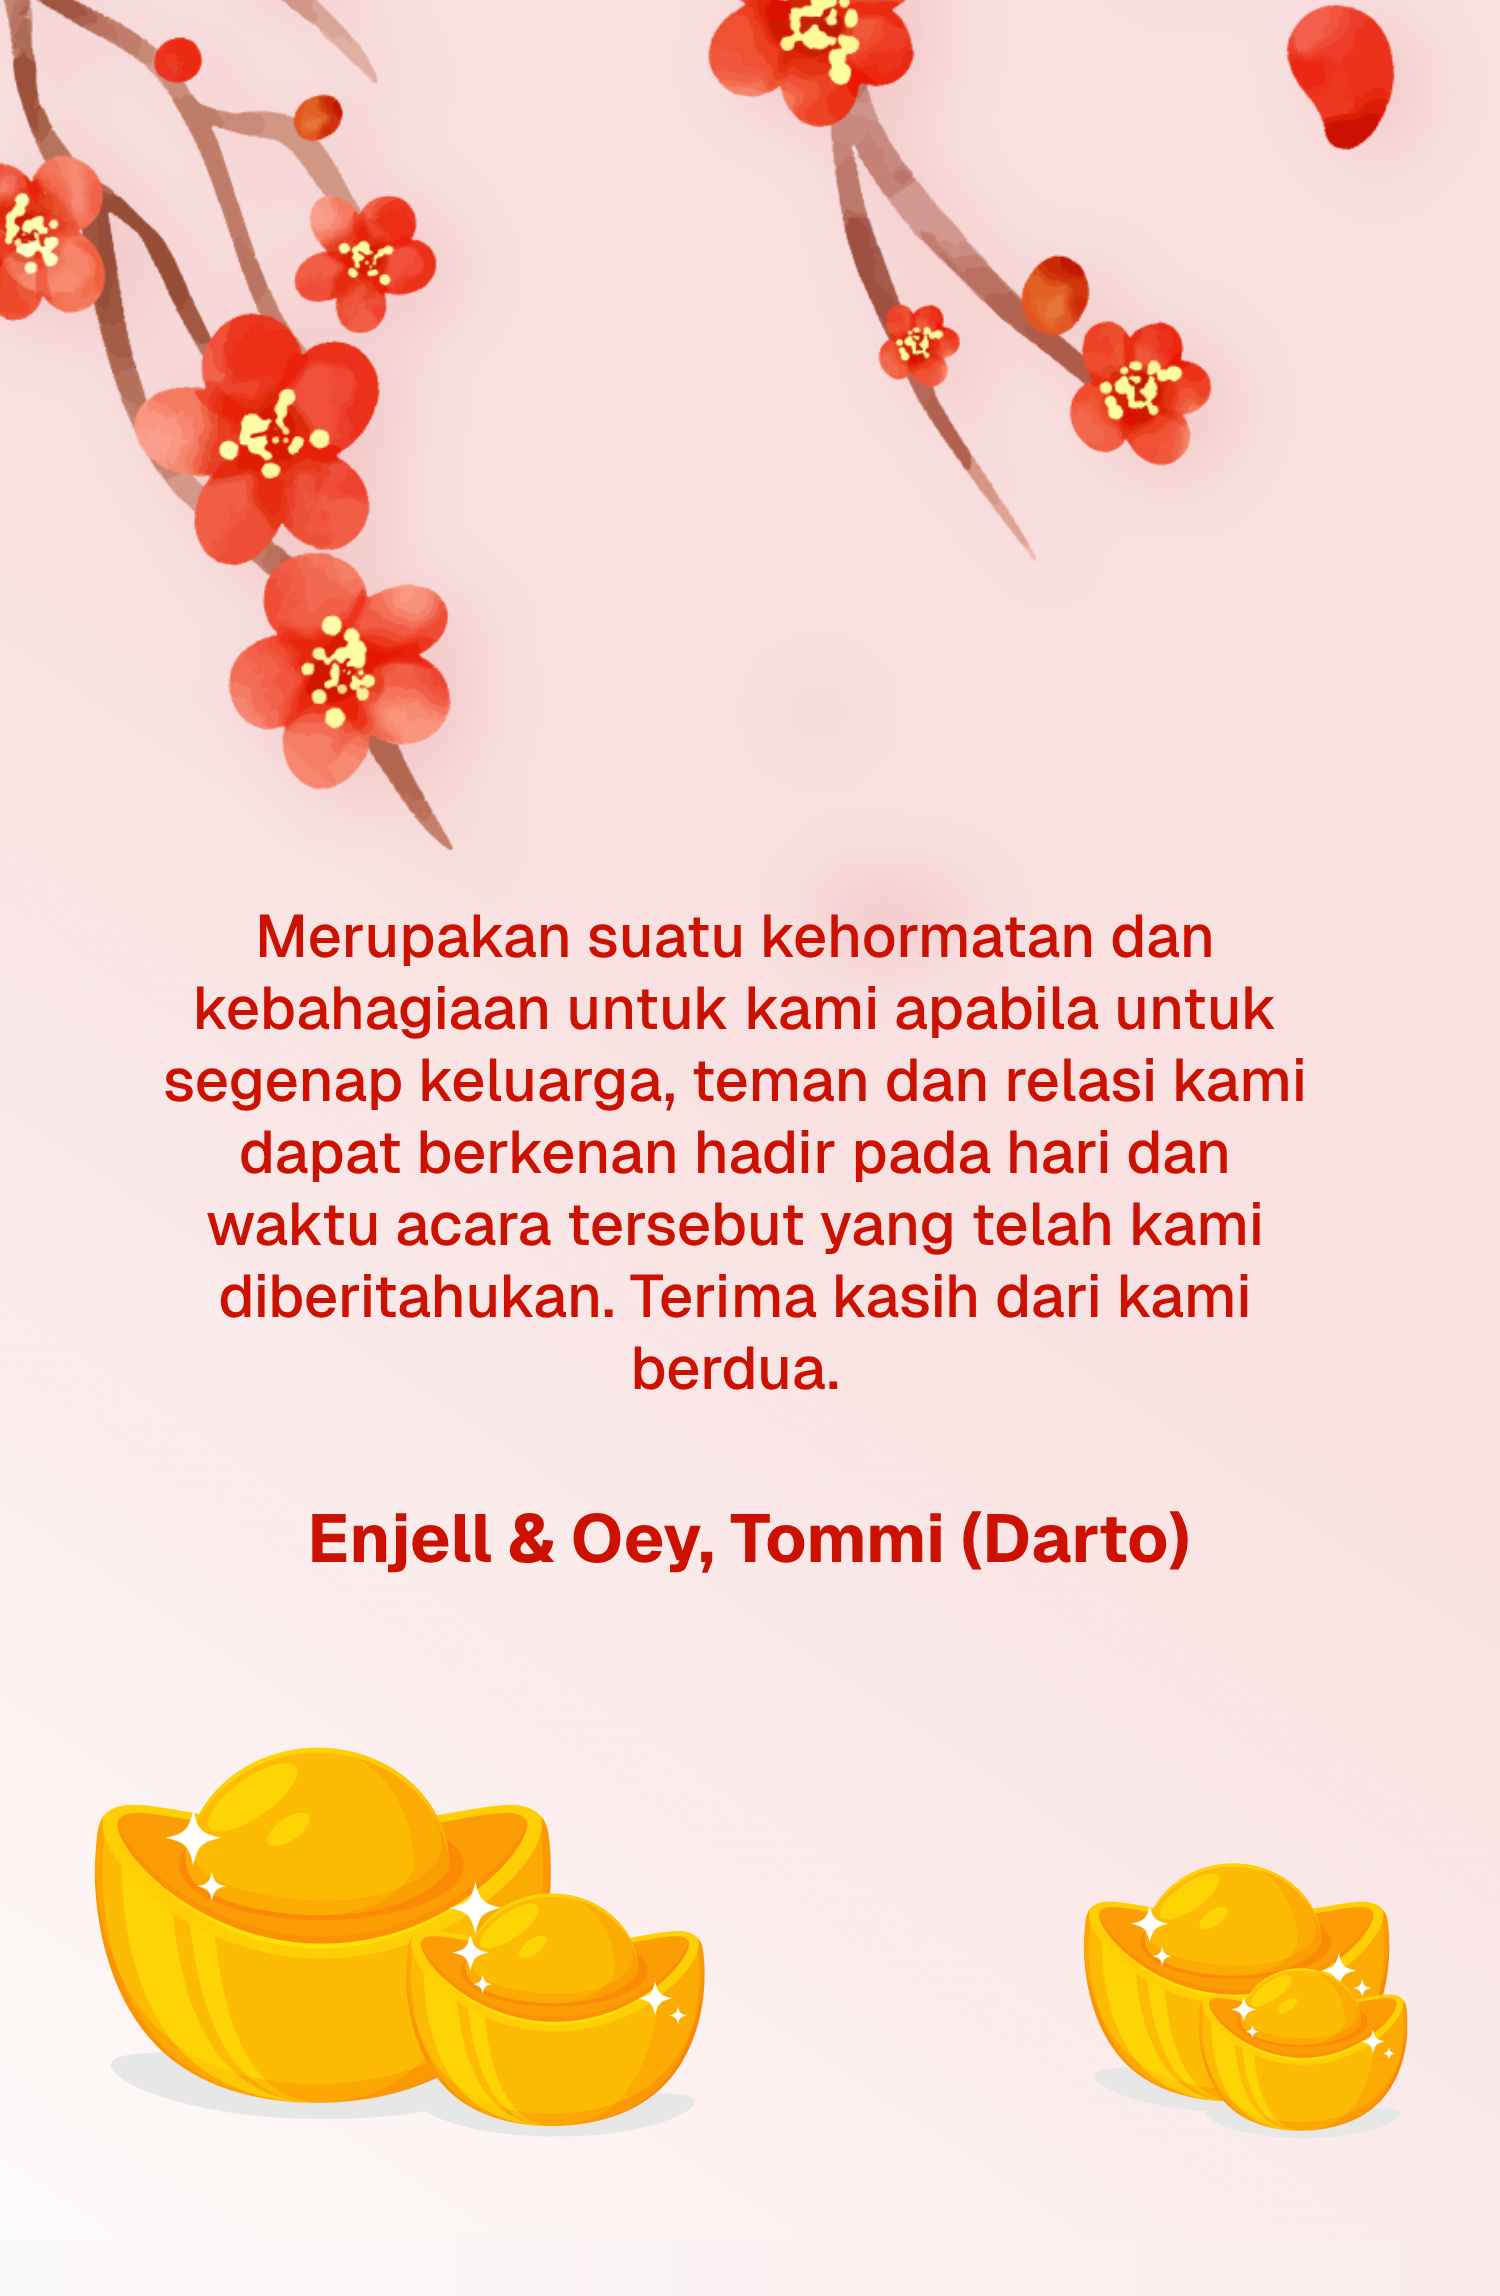
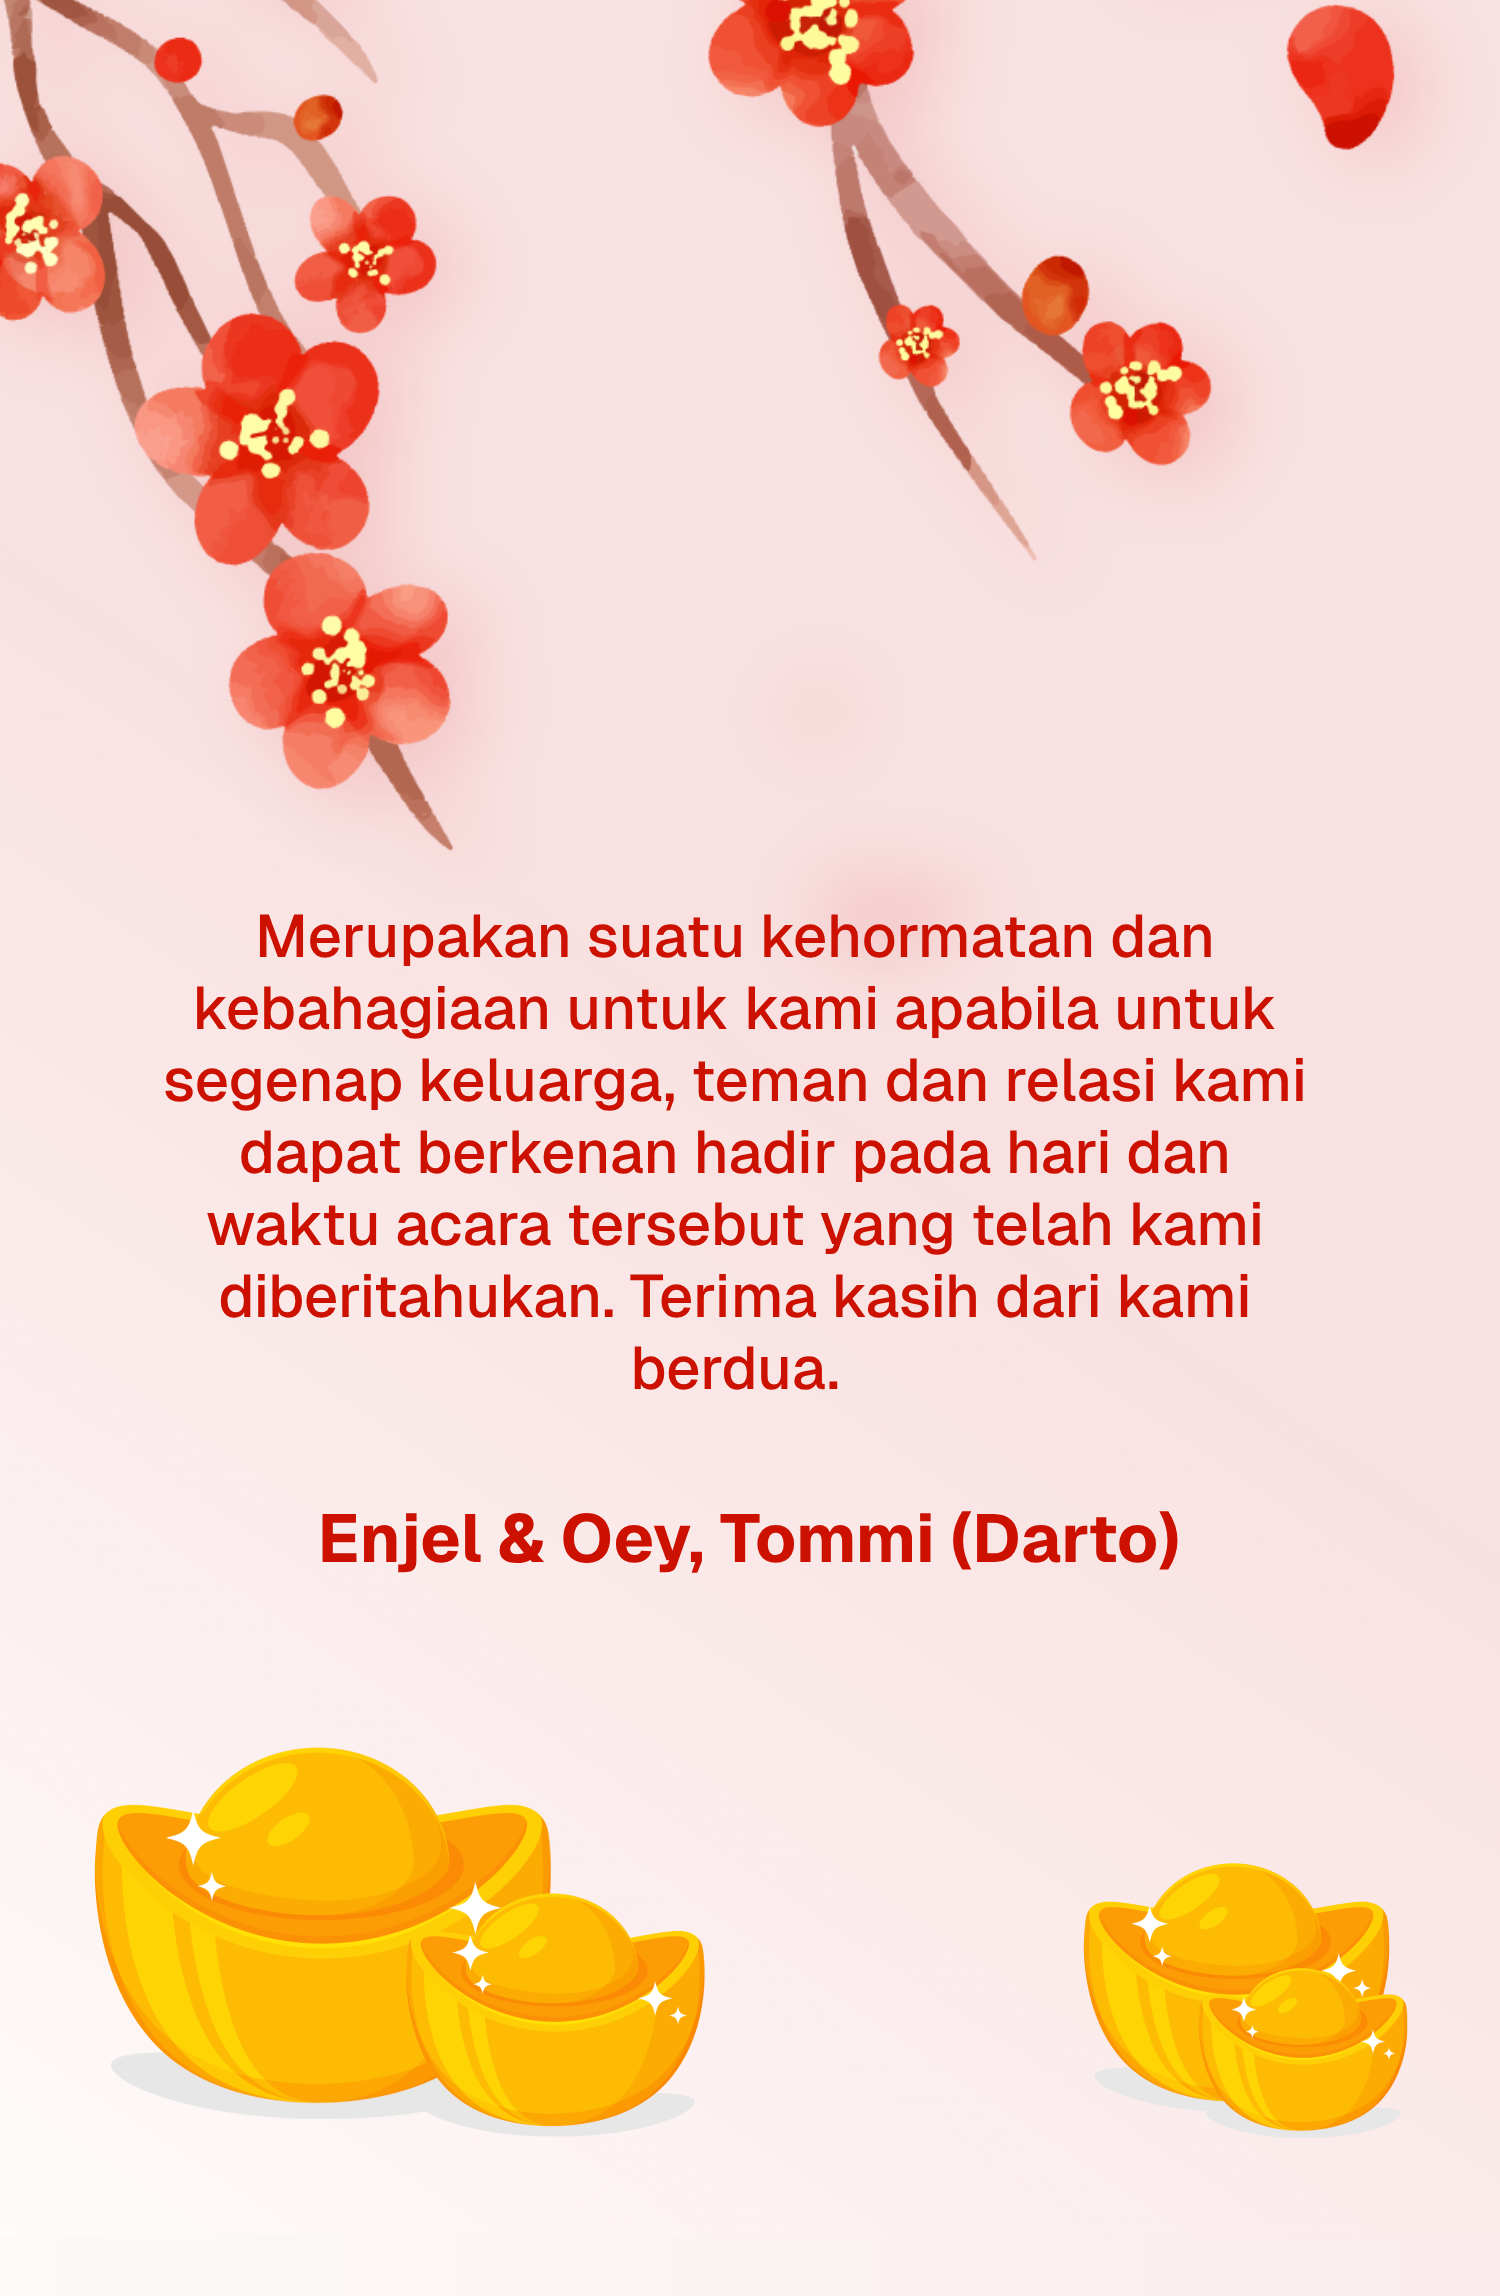
update type

Changed region(s): [[0.184, 0.6494, 0.7973, 0.6803]]

diff --git a/src/app/(pages)/tommi-enjelika/page.tsx b/src/app/(pages)/tommi-enjelika/page.tsx
@@ -141,7 +141,7 @@ export default function Pages() {
               />
             </BlurFade>
             <BlurFade delay={0.25} inView className="space-y-2">
-              <p className="text-lg">Enjell</p>
+              <p className="text-lg">Enjel</p>
               <p className="font-chineseShangai font-bold text-2xl">ENJELIKA</p>
               <div className="text-sm">
                 <p>Putri terakhir dari dua bersaudara dari</p>
